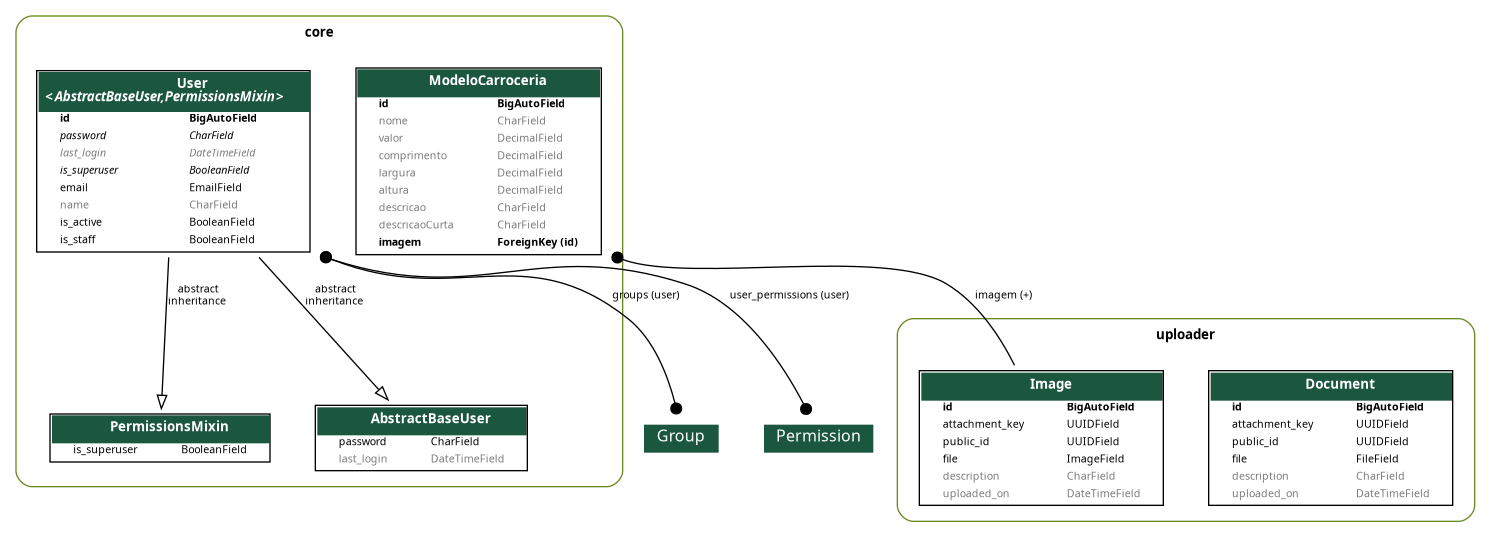
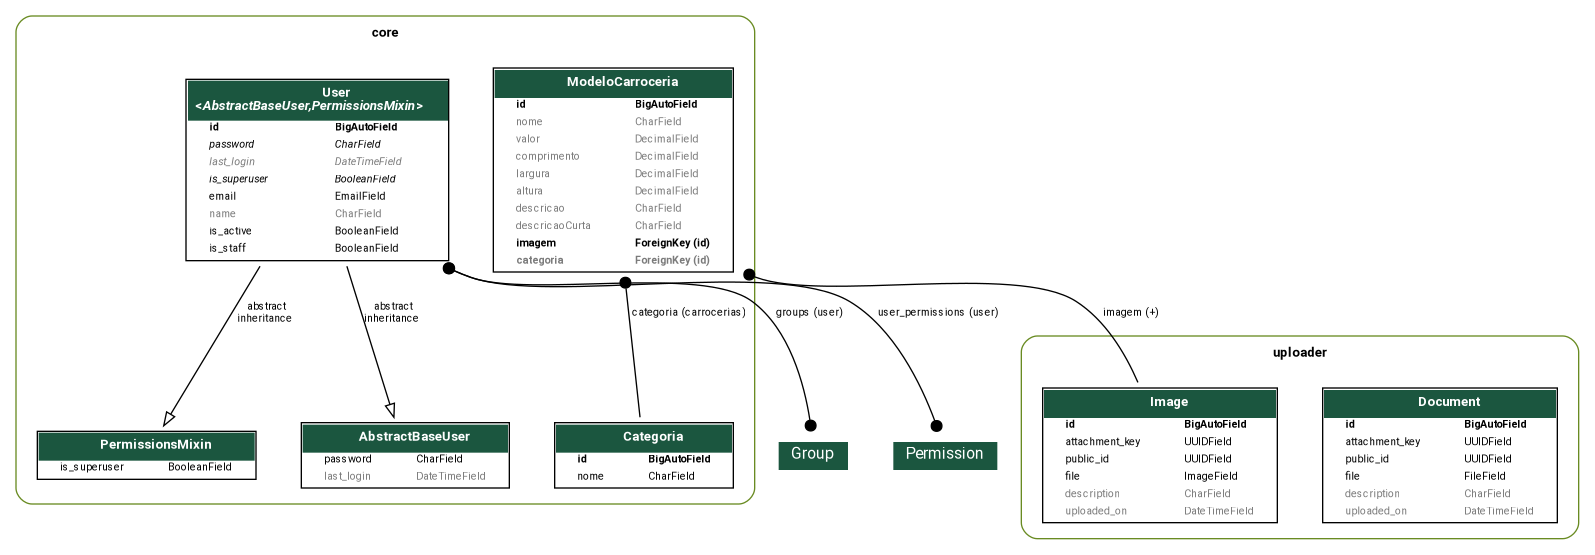
feat: customização do admin [ REFS: #7 ]

diff --git a/core/admin.py b/core/admin.py
@@ -6,9 +6,27 @@ from django.contrib import admin
 from django.contrib.auth.admin import UserAdmin as BaseUserAdmin
 from django.utils.translation import gettext_lazy as _
 
-from core import models
+from core.models import Categoria, ModeloCarroceria, User 
 
[email redacted](ModeloCarroceria)
 
+class ModeloCarroceria(admin.ModelAdmin):
+    list_display=('nome', 'categoria', 'valor',)
+    search_fields=('nome', 'categoria',)
+    list_filter=('nome', 'categoria',)
+    ordering=('id','nome', 'categoria',)
+    list_per_page=10
+
[email redacted](Categoria)
+
+class Categoria(admin.ModelAdmin):
+    list_display=('nome',)
+    search_fields=('nome',)
+    list_filter=('nome',)
+    ordering=('id', 'nome',)
+    list_per_page=10
+
[email redacted](User)
 class UserAdmin(BaseUserAdmin):
     """Define the admin pages for users."""
 
@@ -51,6 +69,3 @@ class UserAdmin(BaseUserAdmin):
     )
 
 
-admin.site.register(models.User, UserAdmin)
-admin.site.register(models.ModeloCarroceria)
-admin.site.register(models.Categoria)

diff --git a/core/migrations/0011_alter_modelocarroceria_options_and_more.py b/core/migrations/0011_alter_modelocarroceria_options_and_more.py
@@ -1,0 +1,23 @@
+# Generated by Django 5.2.13 on 2026-05-13 14:08
+
+import django.db.models.deletion
+from django.db import migrations, models
+
+
+class Migration(migrations.Migration):
+
+    dependencies = [
+        ('core', '0010_modelocarroceria_categoria'),
+    ]
+
+    operations = [
+        migrations.AlterModelOptions(
+            name='modelocarroceria',
+            options={'verbose_name': 'ModeloCarroceria', 'verbose_name_plural': 'ModelosCarrocerias'},
+        ),
+        migrations.AlterField(
+            model_name='modelocarroceria',
+            name='categoria',
+            field=models.ForeignKey(blank=True, null=True, on_delete=django.db.models.deletion.PROTECT, related_name='carrocerias', to='core.categoria'),
+        ),
+    ]

diff --git a/core/models/carroceria/modeloCarroceria.py b/core/models/carroceria/modeloCarroceria.py
@@ -11,11 +11,11 @@ class ModeloCarroceria(models.Model):
     descricao = models.CharField(max_length=255, null = True, blank = True)
     descricaoCurta = models.CharField(max_length=100, null = True, blank = True)
     imagem = models.ForeignKey(Image, related_name='+', on_delete=models.PROTECT, default=None)
-    categoria = models.ForeignKey(Categoria, related_name='categoria', on_delete=models.PROTECT, blank=True, null=True)
+    categoria = models.ForeignKey(Categoria, related_name='carrocerias', on_delete=models.PROTECT, blank=True, null=True)
 
     class Meta:
-        verbose_name = 'Modelo Carroceria'
-        verbose_name_plural = 'Modelos Carrocerias'
+        verbose_name = 'ModeloCarroceria'
+        verbose_name_plural = 'ModelosCarrocerias'
 
     def __str__(self):
         return f'{self.nome}'